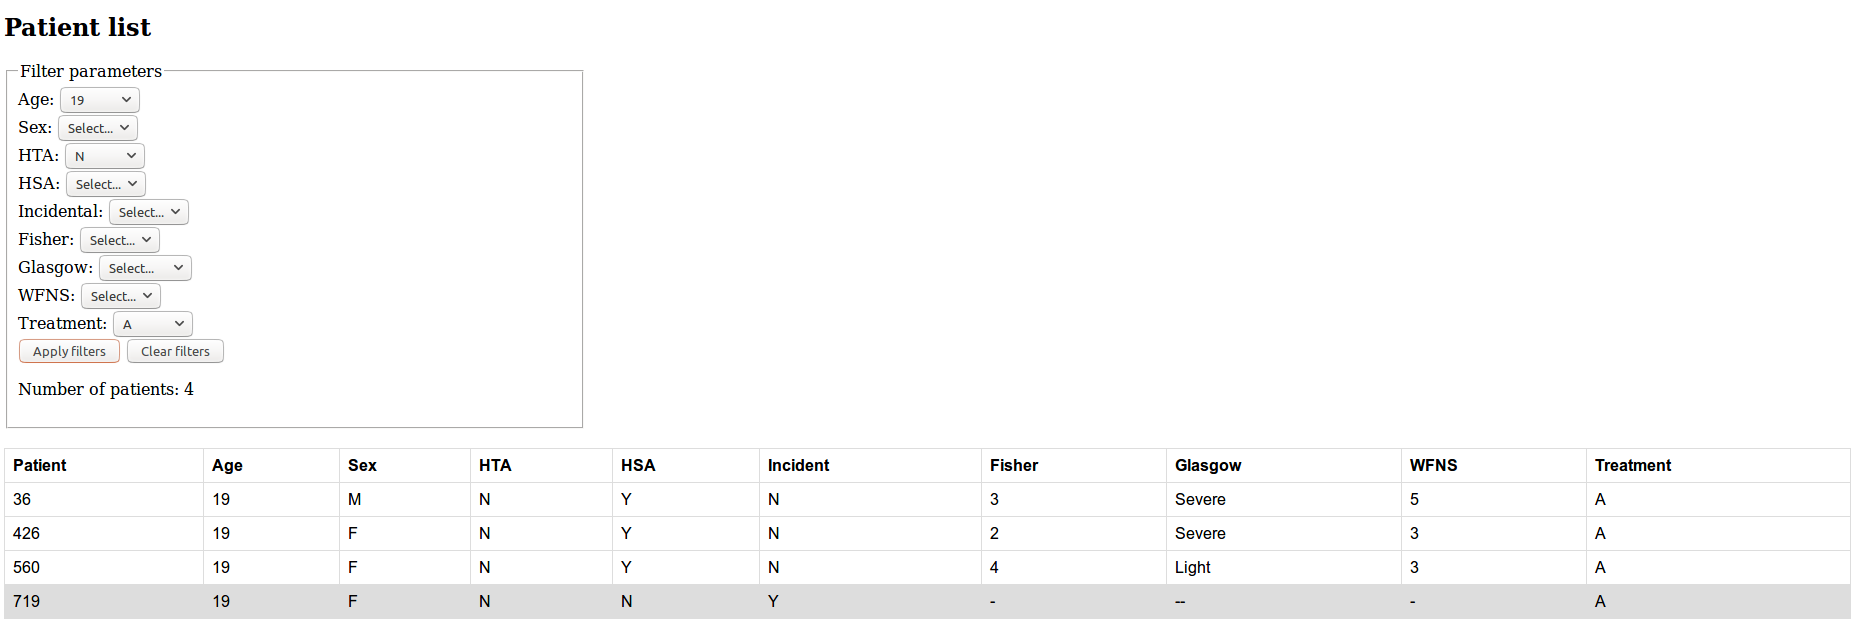
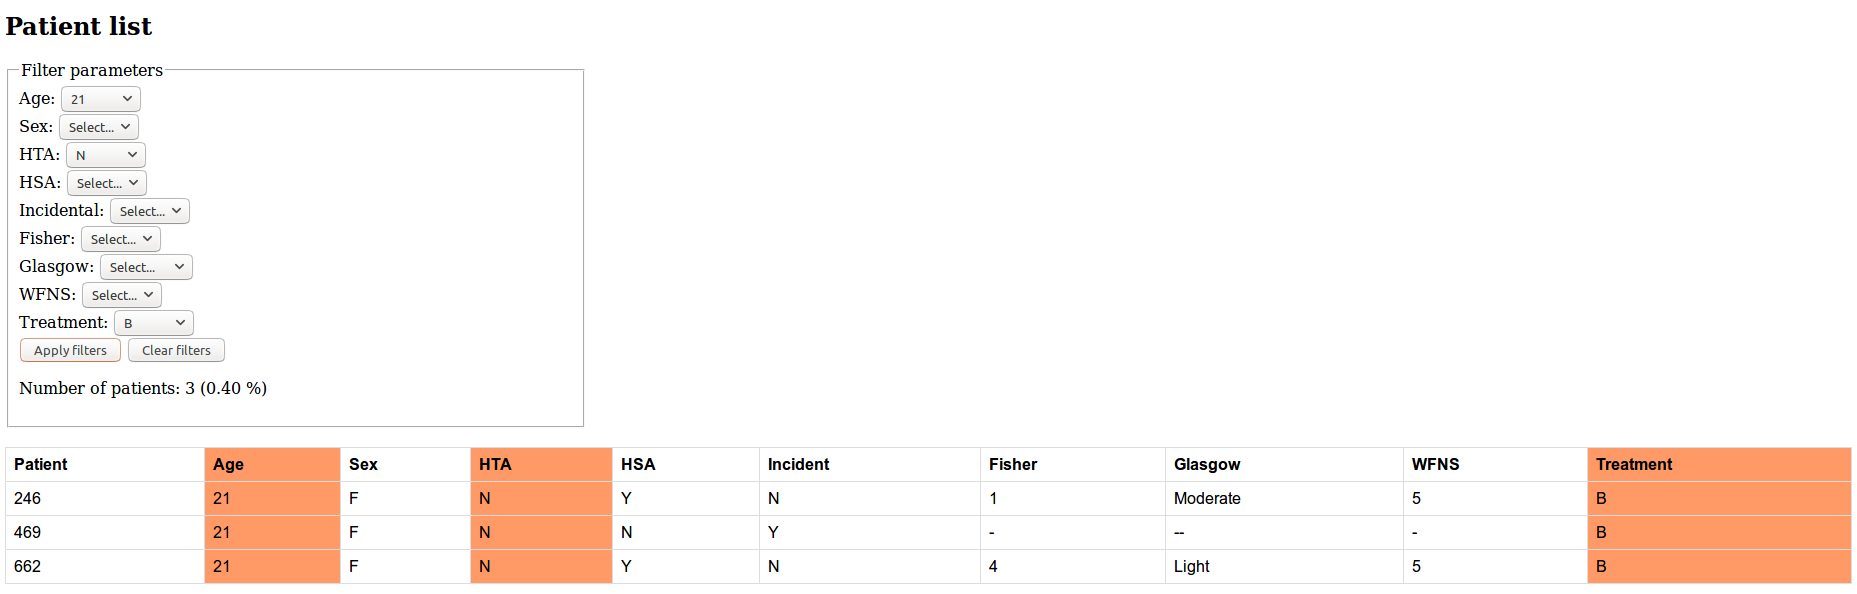
Add column coloring when filtering parameters

Changed region(s): [[0.0, 0.0909, 1.0, 1.0], [0.0, 0.0303, 0.0922, 0.0606]]

diff --git a/html.c b/html.c
@@ -40,7 +40,6 @@ void html_fill_header(FILE * fp)
     html_add_line(fp, "\tfont-family: arial, sans-serif;\n\tborder-collapse: collapse;\n\twidth: 100%%;\n}");
     html_add_line(fp, "\ntd, th {");
     html_add_line(fp, "\tborder: 1px solid #dddddd;\n\ttext-align: left;\n\tpadding: 8px;\n}");
-    html_add_line(fp, "\ntr:nth-child(even) {\n\tbackground-color: #dddddd;\n}");
     html_add_line(fp, "tr:hover {background-color:#99ccff;}");
     html_add_line(fp, "</style>\n</head>");
     html_add_line(fp, "<body>");
@@ -149,7 +148,14 @@ void html_set_fieldset(FILE * fp, unsigned nr_persons, int min_age, int max_age)
 void html_fill_table(FILE * fp, person_t * list, unsigned nr_persons)
 {
     // Enter a new entry with the information in the list
-    html_add_line(fp, "<table id=\"patientTable\">\n<tr>");
+    html_add_line(fp, "<table id=\"patientTable\">");
+    html_add_line(fp, "<colgroup>");
+    for (int i = 0; i < 10; ++i)
+    {
+        html_add_line(fp, "\t<col id=\"c%d\">", i);
+    }
+    html_add_line(fp, "</colgroup>");
+    html_add_line(fp, "<tr>");
     html_add_line(fp, "\t<th>Patient</th>");
     html_add_line(fp, "\t<th>Age</th>");
     html_add_line(fp, "\t<th>Sex</th>");
@@ -211,6 +217,16 @@ void html_add_scripts(FILE * fp)
     html_add_line(fp, "\tfilter_glasgow = document.getElementById(\"select_glasgow\").value.toUpperCase();");
     html_add_line(fp, "\tfilter_wfns = document.getElementById(\"select_wfns\").value.toUpperCase();");
     html_add_line(fp, "\tfilter_treat = document.getElementById(\"select_treat\").value.toUpperCase();\n");
+    html_add_line(fp, "\t// Color columns with the given search parameters");
+    html_add_line(fp, "\tif (filter_age != \"NONE\") {\n\t\tdocument.getElementById(\"c1\").style = \"background-color: #ff9966;\";\n\t}");
+    html_add_line(fp, "\tif (filter_sex != \"NONE\") {\n\t\tdocument.getElementById(\"c2\").style = \"background-color: #ff9966;\";\n\t}");
+    html_add_line(fp, "\tif (filter_hta != \"NONE\") {\n\t\tdocument.getElementById(\"c3\").style = \"background-color: #ff9966;\";\n\t}");
+    html_add_line(fp, "\tif (filter_hsa != \"NONE\") {\n\t\tdocument.getElementById(\"c4\").style = \"background-color: #ff9966;\";\n\t}");
+    html_add_line(fp, "\tif (filter_inc != \"NONE\") {\n\t\tdocument.getElementById(\"c5\").style = \"background-color: #ff9966;\";\n\t}");
+    html_add_line(fp, "\tif (filter_fisher != \"NONE\") {\n\t\tdocument.getElementById(\"c6\").style = \"background-color: #ff9966;\";\n\t}");
+    html_add_line(fp, "\tif (filter_glasgow != \"NONE\") {\n\t\tdocument.getElementById(\"c7\").style = \"background-color: #ff9966;\";\n\t}");
+    html_add_line(fp, "\tif (filter_wfns != \"NONE\") {\n\t\tdocument.getElementById(\"c8\").style = \"background-color: #ff9966;\";\n\t}");
+    html_add_line(fp, "\tif (filter_treat != \"NONE\") {\n\t\tdocument.getElementById(\"c9\").style = \"background-color: #ff9966;\";\n\t}");
 
     html_add_line(fp, "\ttable = document.getElementById(\"patientTable\");");
     html_add_line(fp, "\ttr = table.getElementsByTagName(\"tr\");\n");
@@ -240,7 +256,7 @@ void html_add_scripts(FILE * fp)
     html_add_line(fp, "\t\t\t\tn++;");
     html_add_line(fp, "\t\t\t} else {");
     html_add_line(fp, "\t\t\t\ttr[i].style.display = \"none\";\n\t\t\t}\n\t\t}\n\t}");
-    html_add_line(fp, "\tdocument.getElementById(\"nr_patients\").innerHTML = \"Number of patients: \" + n;\n}\n");
+    html_add_line(fp, "\tdocument.getElementById(\"nr_patients\").innerHTML = \"Number of patients: \" + n + \" (\" + (100 * n / (tr.length - 1)).toFixed(2) + \" %)\";\n}\n");
 
     html_add_line(fp, "function clearFilters() {\n");
     html_add_line(fp, "\tvar table, tr, td, i;");
@@ -258,8 +274,17 @@ void html_add_scripts(FILE * fp)
     html_add_line(fp, "\tdocument.getElementById(\"select_glasgow\").value = \"none\";");
     html_add_line(fp, "\tdocument.getElementById(\"select_wfns\").value = \"none\";");
     html_add_line(fp, "\tdocument.getElementById(\"select_treat\").value = \"none\";");
-    html_add_line(fp, "\tvar n = tr.length;\n\tn = n - 1;");
-    html_add_line(fp, "\tdocument.getElementById(\"nr_patients\").innerHTML = \"Number of patients: \" + n;");
+    html_add_line(fp, "\t// Reset column coloring");
+    html_add_line(fp, "\tdocument.getElementById(\"c1\").style = \"background-color: #ffffff;\";");
+    html_add_line(fp, "\tdocument.getElementById(\"c2\").style = \"background-color: #ffffff;\";");
+    html_add_line(fp, "\tdocument.getElementById(\"c3\").style = \"background-color: #ffffff;\";");
+    html_add_line(fp, "\tdocument.getElementById(\"c4\").style = \"background-color: #ffffff;\";");
+    html_add_line(fp, "\tdocument.getElementById(\"c5\").style = \"background-color: #ffffff;\";");
+    html_add_line(fp, "\tdocument.getElementById(\"c6\").style = \"background-color: #ffffff;\";");
+    html_add_line(fp, "\tdocument.getElementById(\"c7\").style = \"background-color: #ffffff;\";");
+    html_add_line(fp, "\tdocument.getElementById(\"c8\").style = \"background-color: #ffffff;\";");
+    html_add_line(fp, "\tdocument.getElementById(\"c9\").style = \"background-color: #ffffff;\";");
+    html_add_line(fp, "\tdocument.getElementById(\"nr_patients\").innerHTML = \"Number of patients: \" + (tr.length - 1);");
     html_add_line(fp, "}");
 
     html_add_line(fp, "</script>");
